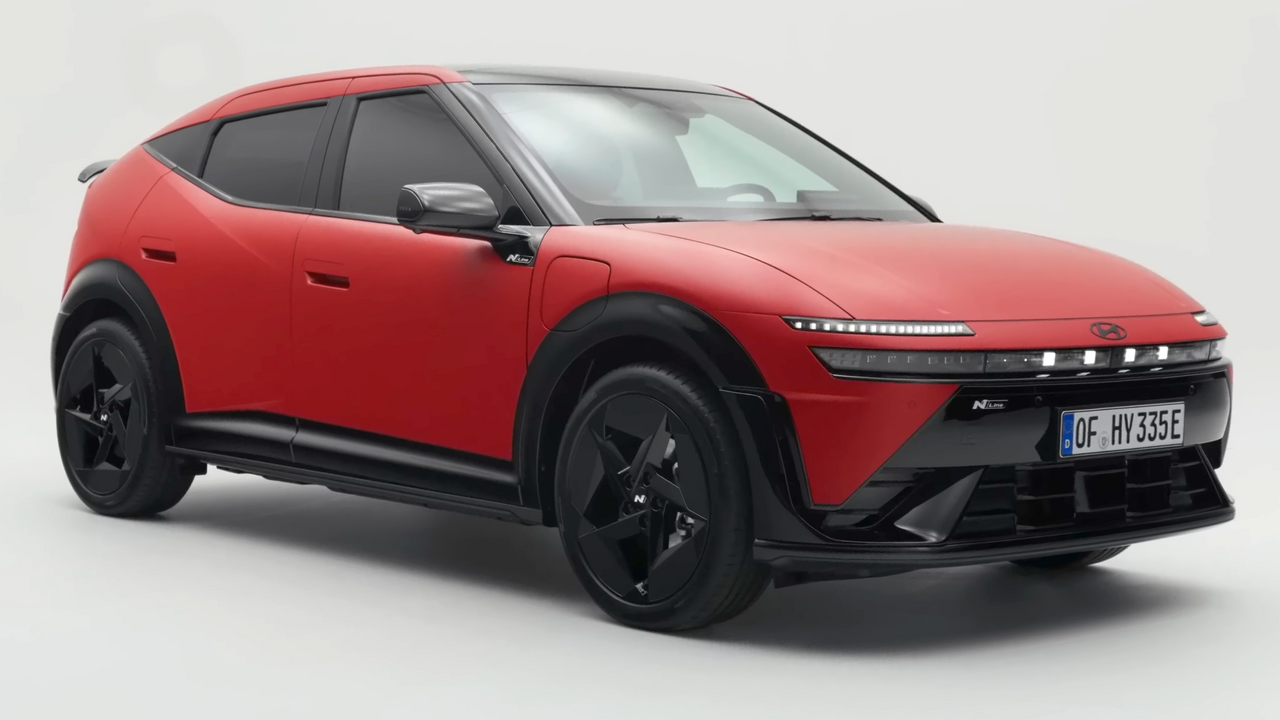
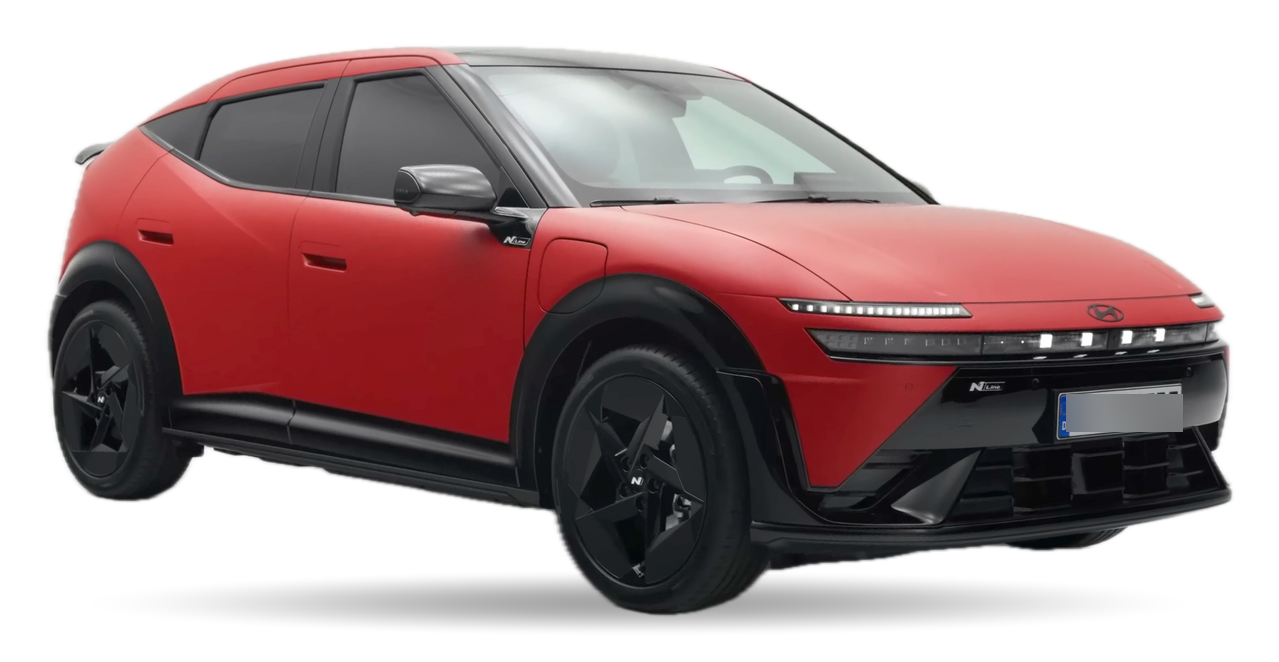
retoucher: ADR-0025, paso 4: juzga y retoca las fotos de los modelos de
Run: 20261120-010007-c95d33 (success)

diff --git a/docs/bitacora/2026-11/2026-11-20T0100-6d842d27.md b/docs/bitacora/2026-11/2026-11-20T0100-6d842d27.md
@@ -1,0 +1,1 @@
+- **2026-11-20 01:00** · 📝 Nota — Retocador sobre data/raw/hyundai/: 4 aceptadas (Inster, Ioniq 3, Ioniq 6, Ioniq 9; edits background+plate) y 2 rechazadas (Ioniq 5 por recorte: hierba pegada y halo; Kona Eléctrico por cortado: rueda en el borde, sin retocar). Matrícula tapada en las 5 retocadas. (ADR-0025)
